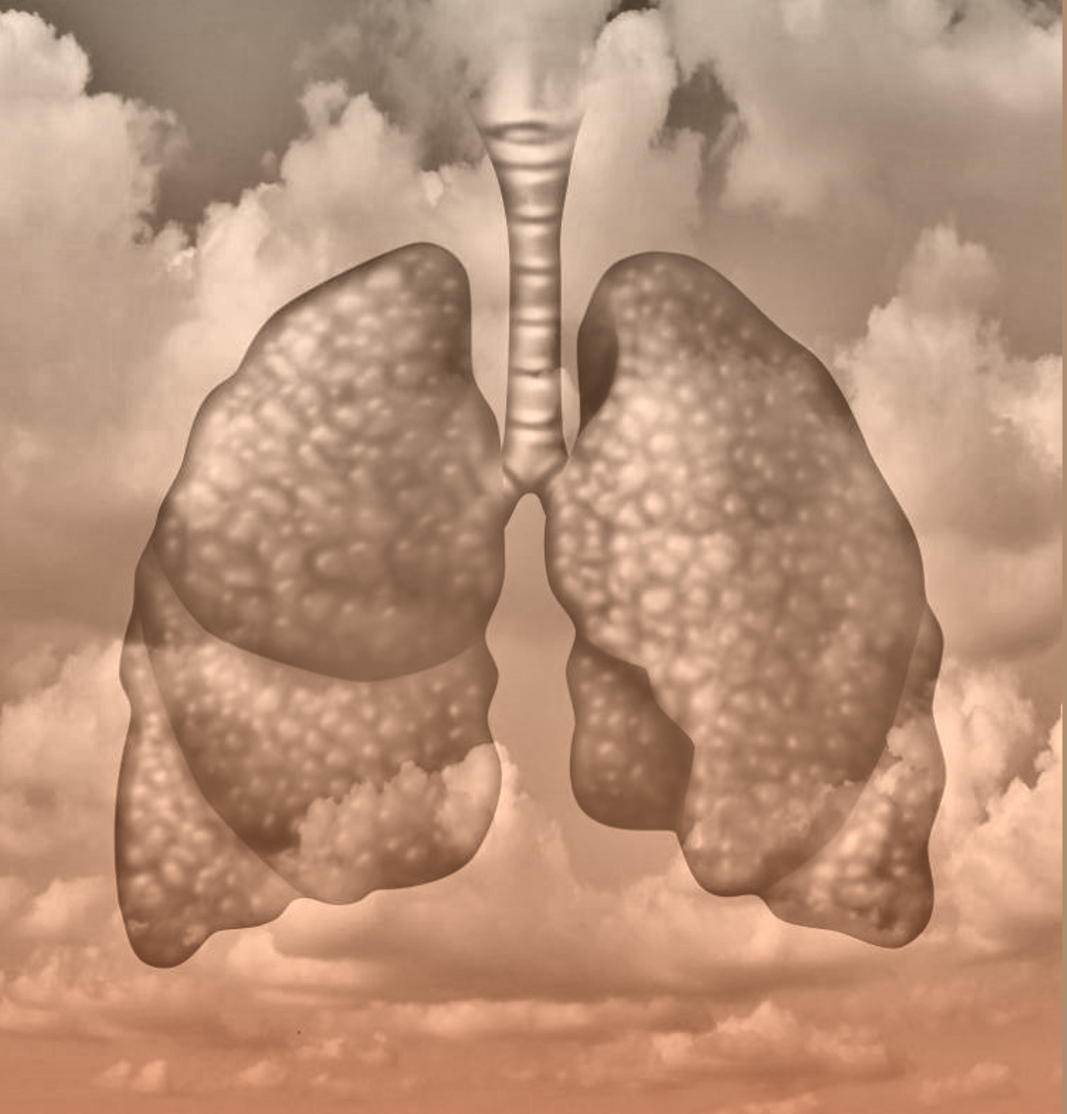
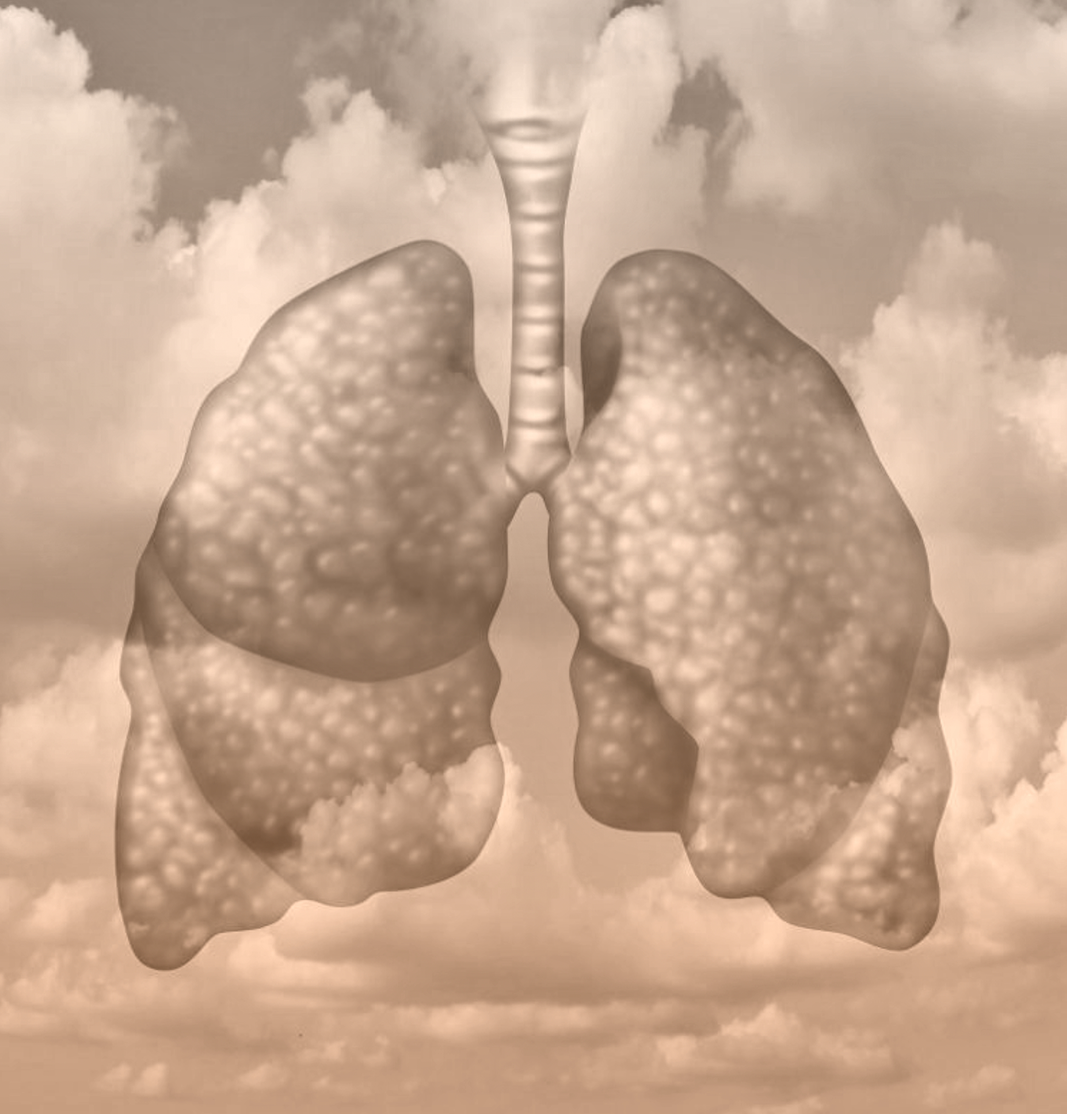
replace blog img and decrease subheader in ofer modal

diff --git a/src/container/Blog/Blog.jsx b/src/container/Blog/Blog.jsx
@@ -1,4 +1,4 @@
-import React, {useState} from 'react';
+import React from 'react';
 import { Headlines, OfferCart } from '../../components';
 
 import { images } from "../../constants";
@@ -215,10 +215,6 @@ const Blog = () => {
             />
           </div>
         </div>
-
-
-       
-
   </section>
   )
 }

diff --git a/src/components/NamePlusIkon/NamePlusIkon.scss b/src/components/NamePlusIkon/NamePlusIkon.scss
@@ -13,7 +13,7 @@
       margin-right: 15px;
 
       @include lg-max {
-          height: 80px;
+          height: 70px;
       }
   }
 
@@ -26,7 +26,7 @@
       font-weight: $font-normal;
 
       @include lg-max {
-          font-size: 30px;
+          font-size: 20px;
       }
   }
 }

diff --git a/src/container/Contact/Contact.jsx b/src/container/Contact/Contact.jsx
@@ -36,8 +36,8 @@ const Contact = () => {
     e.preventDefault();
 
     emailjs.sendForm(
-        'service_test.soft.wilk',
-        'template_testowy', 
+        'service_annaG',
+        'template_anna_gidzinska', 
         form.current, 
         'emN60zZ4izVezIl4_'
        )

diff --git a/src/components/OfferCart/OfferCart.scss b/src/components/OfferCart/OfferCart.scss
@@ -76,7 +76,7 @@
     }
 
     .title {
-        font-size: 20px;
+
         margin: 20px 0;
         font-family: $handwriting-font;
         letter-spacing: 3px;

diff --git a/src/container/Opinions/Opinions.scss b/src/container/Opinions/Opinions.scss
@@ -47,6 +47,7 @@
             svg {
                 width: 25px;
                 height: 25px;
+                margin: 10px 0;
             }
         }
 
